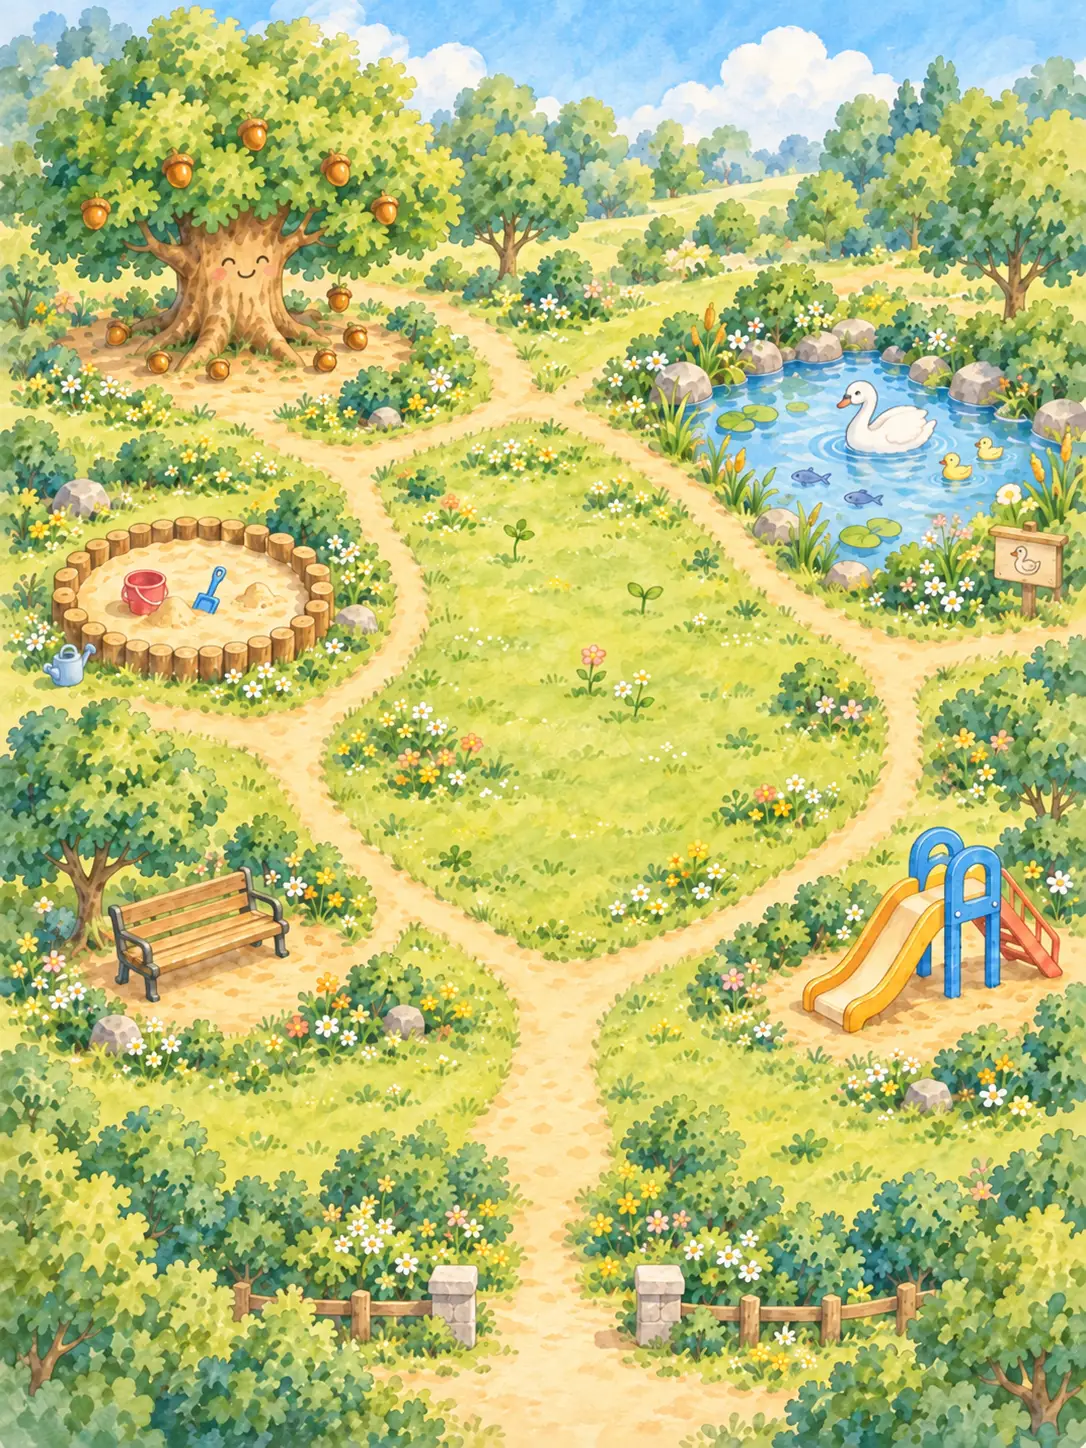
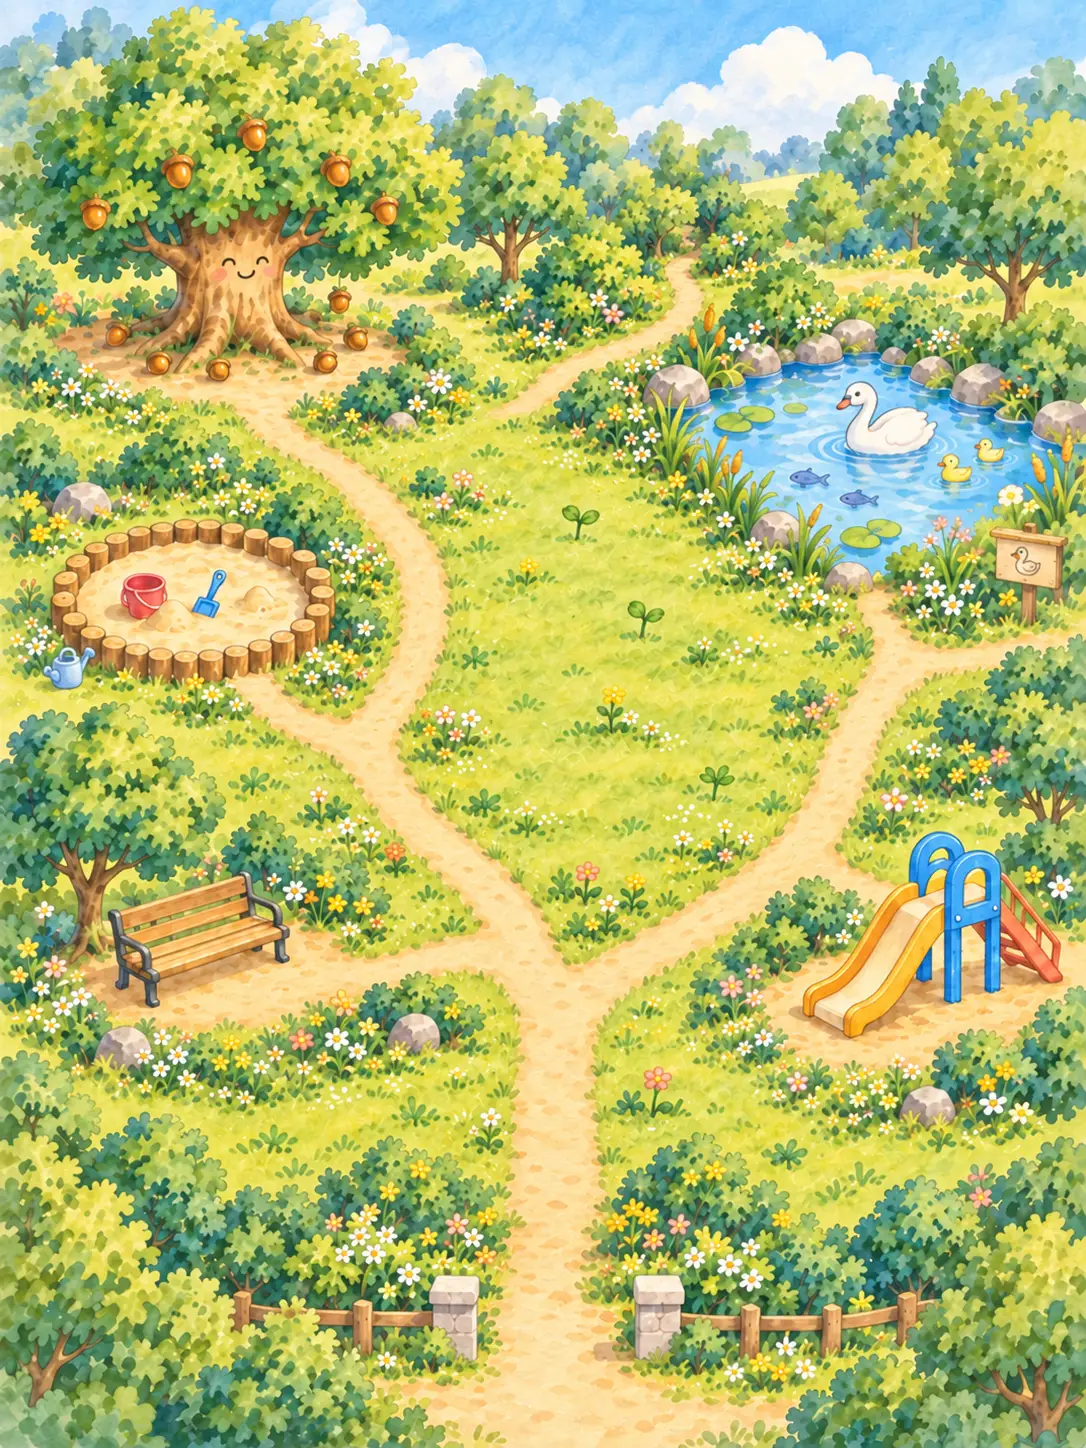
fix: 公園マップの絵を差しかえ、行き先ボタンを各場所の絵の下に配置

diff --git a/assets/css/game/park-map.css b/assets/css/game/park-map.css
@@ -16,12 +16,14 @@
 
    ■ 地図のならび（下が公園の出入り口、上が公園の奥）
 
-     [どんぐりの木]              [秘密の小道]
+                              [秘密の小道]
+     [どんぐりの木]
                   [芝生広場]
      [砂場]                            [池]
      [きゅうけい]                  [すべり台]
                  [おうちへ帰る]
                      （門）
+     （池の絵は右上、すべり台の絵は右の中ほど。ボタンはどちらも絵のすぐ下に置く）
 
    ■ 置き場所を変えたいとき
      その場所のクラスの --x / --y（ボタンのまん中の位置。地図の横はば・高さに対する %）だけを書きかえる
@@ -29,7 +31,7 @@
 
      スマホで % を変えたときは 320×568・375×667・360×740・390×844 などで、
      重ならないか・はみ出さないか・スクロールが出ないか確かめる
-     （いちばんきついのは 320×568 の どんぐりの木 の左はしと、すべり台 と おうちへ帰る の重なり）
+     （いちばんきついのは 320×568 の すべり台 の右はしと、池 と 芝生広場 の重なり）
    ============================================================ */
 
 /* 公園入口のカード（あいさつ文 → 地図 のたてならび）
@@ -137,52 +139,52 @@
 /* ===== 行き先ごとの置き場所 =====
    絵をかくしすぎないよう、ボタンはその場所の絵のすぐ下（看板のような位置）に置く */
 
-/* 左上：どんぐりの木（大きな木の根もとの、土の輪の下） */
+/* 左上：どんぐりの木（大きな木の根もとの、どんぐりが落ちている土の輪の下） */
 .park-map__spot--acorn {
-  --x: 16%;
-  --y: 32%;
+  --x: 19.5%;
+  --y: 33%;
 }
 
-/* 右上：秘密の小道（右上の奥へ続く小道の上。見つけたあとは こもれびの広場） */
+/* 上の奥：秘密の小道（芝生広場の右上から、奥の木立へ続く小道の上。見つけたあとは こもれびの広場） */
 .park-map__spot--secret {
-  --x: 74%;
-  --y: 10%;
+  --x: 63%;
+  --y: 13%;
 }
 
 /* まん中：芝生広場（まん中の広い芝生） */
 .park-map__spot--grass {
-  --x: 50%;
-  --y: 40%;
+  --x: 51%;
+  --y: 44%;
 }
 
 /* 左の中ほど：砂場（丸い砂場のすぐ下） */
 .park-map__spot--sandbox {
-  --x: 16.5%;
+  --x: 18.5%;
   --y: 57%;
 }
 
-/* 右の中ほど：池（池のすぐ下） */
+/* 右の中ほど：池（右上の池のすぐ下。すべり台の上の芝生） */
 .park-map__spot--pond {
-  --x: 84%;
-  --y: 57%;
+  --x: 83%;
+  --y: 53.5%;
 }
 
 /* 左下：きゅうけい（ベンチのすぐ下。ベンチの絵が見えるようにする） */
 .park-map__spot--rest {
-  --x: 19%;
-  --y: 84%;
+  --x: 17%;
+  --y: 79%;
 }
 
 /* 右下：すべり台（すべり台のすぐ下。すべり台の絵が見えるようにする。きゅうけい と同じ段） */
 .park-map__spot--slide {
-  --x: 86%;
-  --y: 85%;
+  --x: 84%;
+  --y: 80.5%;
 }
 
-/* いちばん下のまん中：おうちへ帰る（門に重ねる。ベンチ・すべり台の絵を見せるほうを優先して、門の柱は少しかくれてよい） */
+/* いちばん下のまん中：おうちへ帰る（門の柱のあいだ。門の柱は少しかくれてよい） */
 .park-map__spot--goal {
   --x: 50%;
-  --y: 92.5%;
+  --y: 91.5%;
 }
 
 /* ===== 見つけたばかりの秘密の小道（NEW の印・ゆっくり光る） =====
@@ -292,11 +294,11 @@
    ・ボタン … 文字を地図の横はばに合わせ（15px 〜 12px）、余白も em にして いっしょに縮める
      幅はそろえない（「こもれびの広場」に合わせると、地図をかくしすぎるため）
 
-     [どんぐりの木]          [秘密の小道]
-               [芝生広場]
-     [砂場]                        [池]
-     [きゅうけい]
-                              [すべり台]
+                       [秘密の小道]
+     [どんぐりの木]
+                  [芝生広場]       [池]
+     [砂場]
+     [きゅうけい]             [すべり台]
                 [おうちへ帰る]
                    （門） */
 @media (max-width: 700px) {
@@ -352,49 +354,49 @@
 
   /* 左上：どんぐりの木（木の根もとの、土の輪の下） */
   .park-map__spot--acorn {
-    --x: 27%;
-    --y: 27%;
+    --x: 22%;
+    --y: 30%;
   }
 
-  /* 右上：秘密の小道（右上の奥へ続く小道の上） */
+  /* 上の奥：秘密の小道（芝生広場の上から、右上の奥の木立へ続く小道の上） */
   .park-map__spot--secret {
-    --x: 70%;
-    --y: 12%;
+    --x: 62%;
+    --y: 9%;
   }
 
   /* まん中：芝生広場（まん中の広い芝生） */
   .park-map__spot--grass {
-    --x: 52%;
-    --y: 42%;
+    --x: 56%;
+    --y: 43%;
   }
 
   /* 左の中ほど：砂場（丸い砂場のすぐ下） */
   .park-map__spot--sandbox {
-    --x: 16%;
-    --y: 51%;
+    --x: 18%;
+    --y: 50%;
   }
 
-  /* 右の中ほど：池（池のすぐ下） */
+  /* 右の中ほど：池（右上の池のすぐ下） */
   .park-map__spot--pond {
-    --x: 86%;
-    --y: 53%;
+    --x: 85%;
+    --y: 45%;
   }
 
   /* 左下：きゅうけい（ベンチのすぐ下） */
   .park-map__spot--rest {
-    --x: 24%;
-    --y: 75%;
+    --x: 19%;
+    --y: 73%;
   }
 
   /* 右下：すべり台（すべり台のすぐ下） */
   .park-map__spot--slide {
-    --x: 78%;
-    --y: 76%;
+    --x: 81%;
+    --y: 77%;
   }
 
-  /* いちばん下のまん中：おうちへ帰る（門に重ねる。門の柱は少しかくれてよい） */
+  /* いちばん下のまん中：おうちへ帰る（門の柱のあいだ。門の柱は少しかくれてよい） */
   .park-map__spot--goal {
-    --x: 50%;
-    --y: 92%;
+    --x: 51%;
+    --y: 91%;
   }
 }
